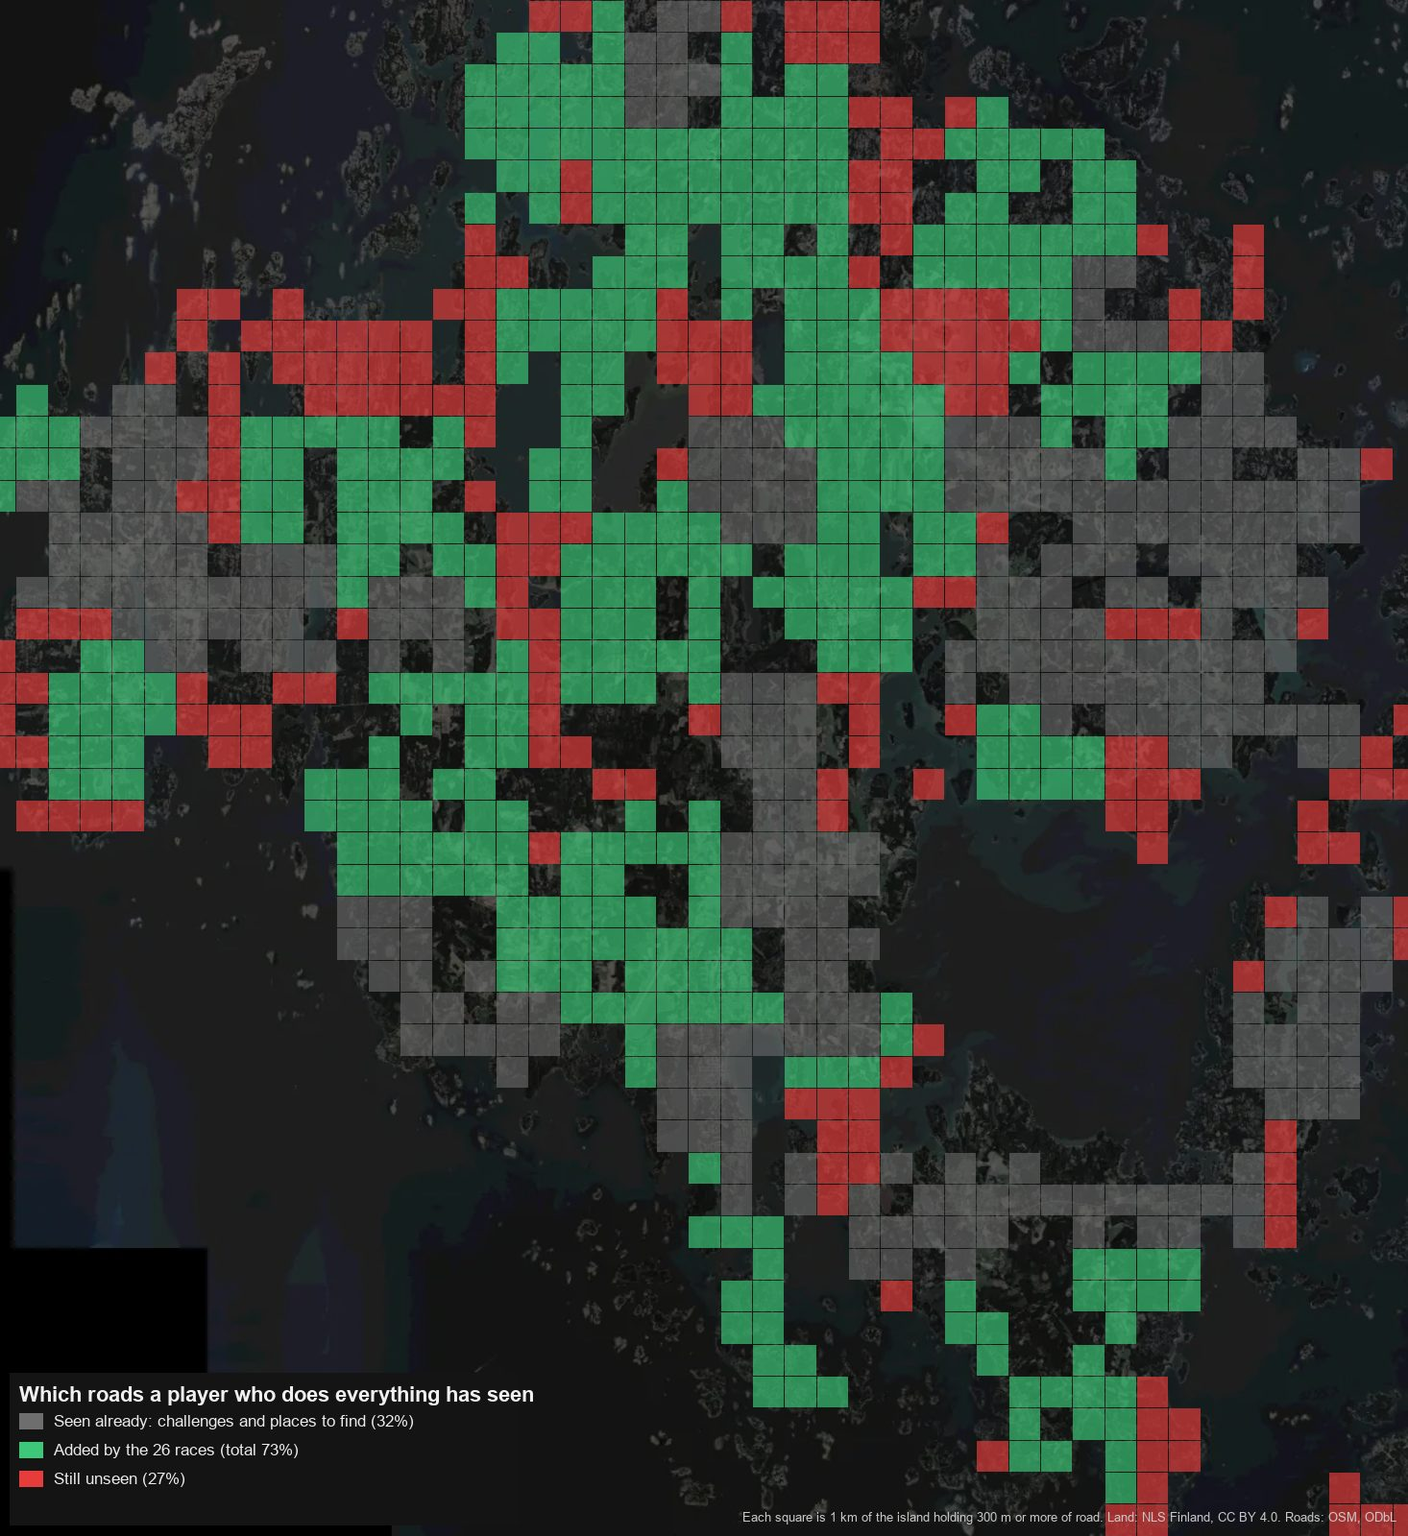
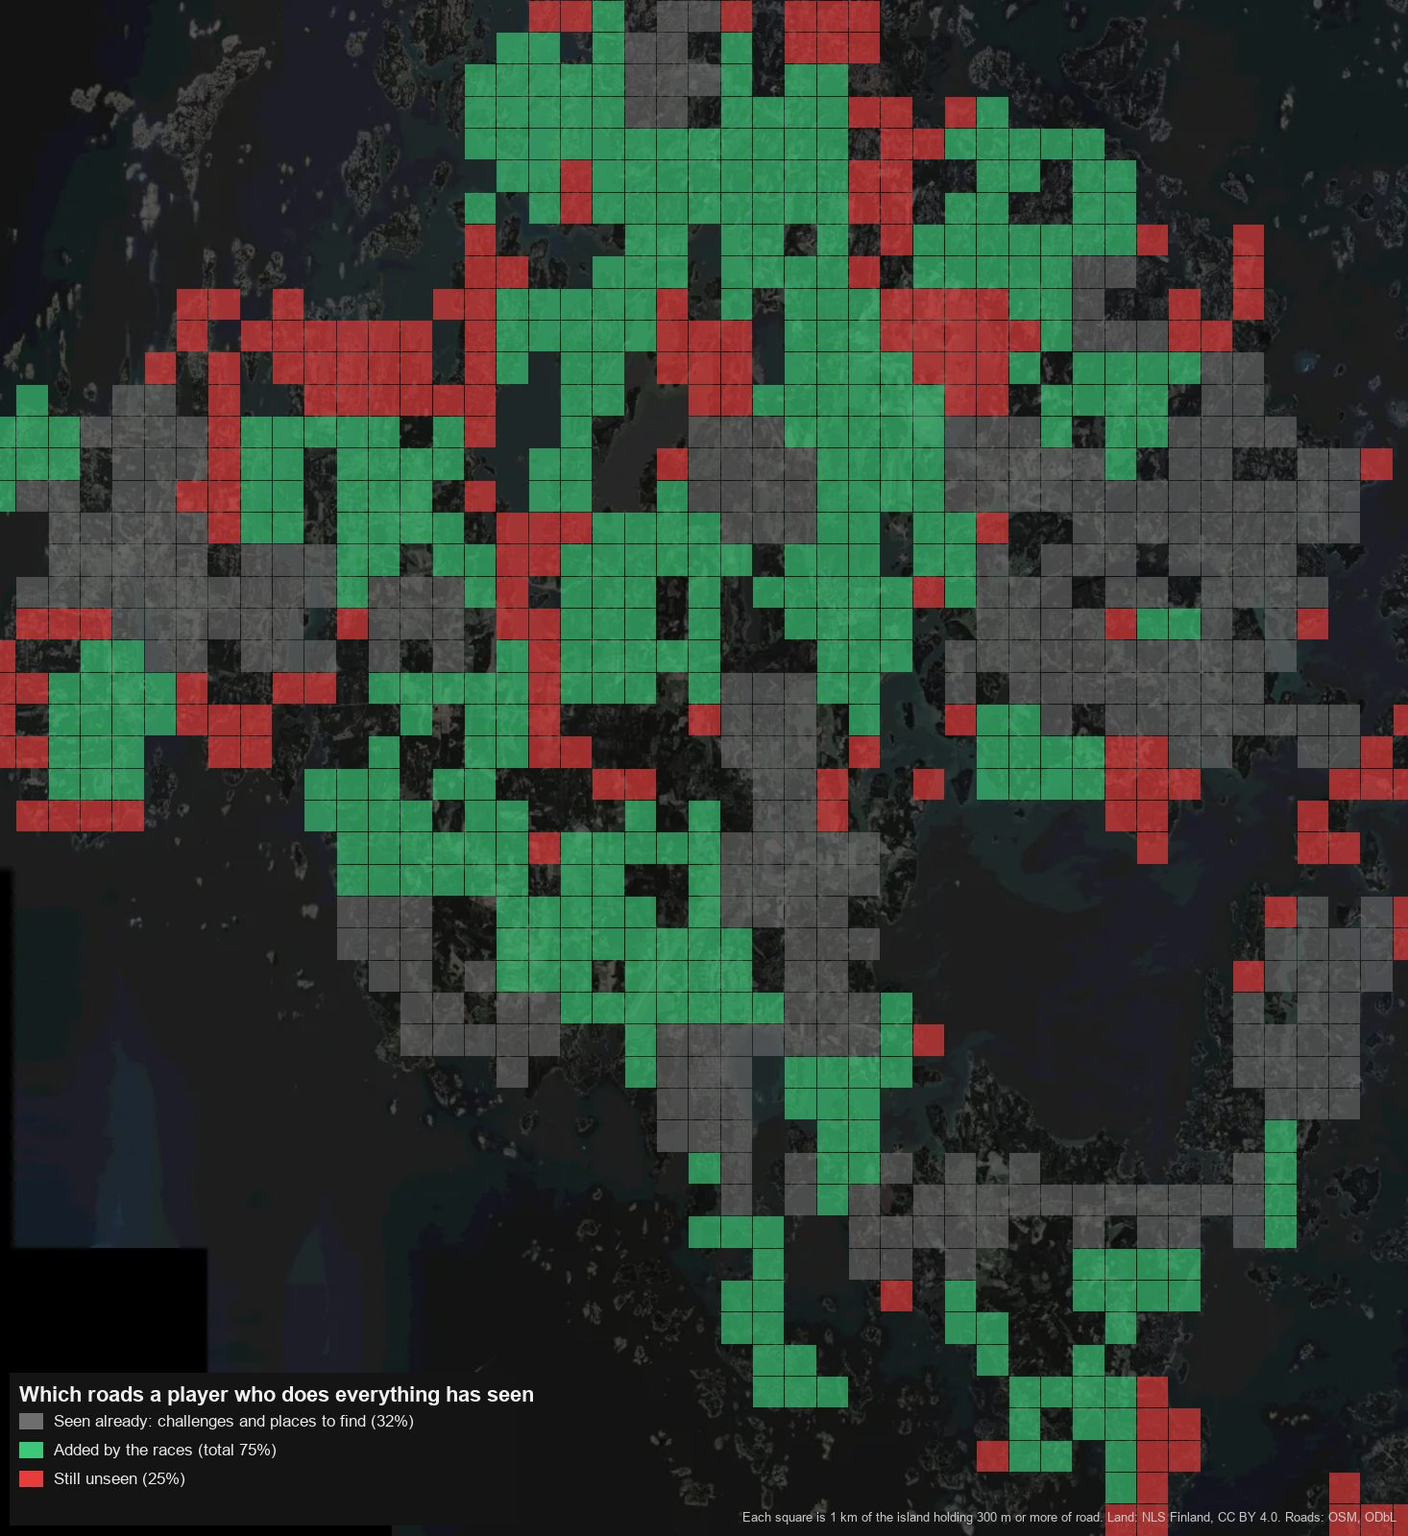
docs(aland-drive): races may use the bucket list's roads
The owner dropped the rule keeping races off challenge roads: those are
the island's most storied roads, and a race asks something different of
them (laps, racers and traffic, another car or way round). Six tracks
join on them: Kastelholm, the old and new road 2, the night run to
Långnäs, the Sund Ring, Djurvik and Nötviken. 32 tracks, 75% of the
island's road seen.

diff --git a/src/projects/aland-drive/ideas/races.md b/src/projects/aland-drive/ideas/races.md
@@ -7,19 +7,19 @@ The order of work is the owner's: plan, then races on the map, then the AI drive
 ## The short version
 
 - **A race is a circuit or a sprint**: laps of a loop, or point to point. Every race is also one of three kinds by what's under the wheels: **road** (asphalt only), **cross country** (asphalt and gravel mixed) and **off-road** (gravel and loose ground).
-- **Races are a way to explore.** A player who does every race and every bucket-list challenge and finds every place should have seen most of the island. Today the challenges and the places show about a third of its road; the 26 races here take that to nearly three quarters.
-- **26 tracks**: 12 road, 9 cross country and 5 off-road, in every parish the car can reach, none on a bucket-list challenge's road.
+- **Races are a way to explore.** A player who does every race and every bucket-list challenge and finds every place should have seen most of the island. Today the challenges and the places show about a third of its road; the 32 races here take that to three quarters.
+- **32 tracks**: 15 road, 10 cross country and 7 off-road, in every parish the car can reach. Six of them share roads with bucket-list challenges, the island's most storied ones, and ask something different of them.
 - **The race picks the car**, as a challenge does, so the first version needs no money and no garage, and the racers drive other cars of the same kind. How a player chooses a car comes later.
 - **First, second and third are gold, silver and bronze**, and a solo result is kept apart from a co-op one. A co-op team is scored as Forza Horizon scores a team: on points for the racers its players beat.
 - **Races are run in the world as it is**: its traffic, as TDU's are, and its hour, season and weather, so the AI racers must race every track in every condition and through traffic. Challenges set their own conditions instead, as Forza's bucket lists do.
 - **Races reuse the challenges' machinery** (start ring, countdown, lines across the road, the panel, the result card, retry) and add laps, a grid and places.
 - **Every track is driven by the simulation before any racer exists**, with a race version of the challenge par tool, so a track nobody can finish cleanly never reaches the racers.
 
-![The 26 tracks on the island](races-map.jpg)
+![The 32 tracks on the island](races-map.jpg)
 
-*The 26 tracks by kind: road in yellow, cross country in blue, off-road in green. A circuit is a closed loop; a sprint has a white dot at its start and a white square at its finish. Red is the bucket list's roads, which races leave alone.*
+*The 32 tracks by kind: road in yellow, cross country in blue, off-road in green. A circuit is a closed loop; a sprint has a white dot at its start and a white square at its finish. Red is the bucket list's roads.*
 
-Each track up close, on the aerial photo with its height profile: [road, 1 to 6](races-road-1.jpg), [road, 7 to 12](races-road-2.jpg), [cross country](races-cross-country.jpg) and [off-road](races-off-road.jpg).
+Each track up close, on the aerial photo with its height profile: [road, 1 to 6](races-road-1.jpg), [road, 7 to 12](races-road-2.jpg), [cross country](races-cross-country.jpg), [off-road](races-off-road.jpg) and [the six on challenge roads](races-on-challenge-roads.jpg).
 
 ## 1. Race types
 
@@ -58,7 +58,7 @@ The criteria every track is scored on, with what the score is measured from.
 | **Scenery and landmarks** | The game is a tour of a real place. A race past a castle or along the sea is remembered; one through forest isn't. | Real places from `docs/HISTORY.md` within 400 m, and sea or open views on the map. |
 | **Overtaking** | Wheel to wheel needs places to pass: straights over 300 m, and hard braking into a slow corner after one. | Straights over 300 m, and the longest. |
 | **Width** | Two cars side by side need a two-lane road. A gravel lane takes one car at a time. | The road's class: primary and secondary are two lanes, unclassified lanes one. |
-| **What it shows** | Races are how a player comes to know the island. | The roads within a kilometre of the route that no challenge, place or other race already shows. |
+| **What it shows** | Races are how a player comes to know the island. | The roads within a kilometre of the route that no challenge, place or other race already shows. A race on a challenge's road shows nothing new, and earns its place by the road itself. |
 
 ## 3. Where the loops and branches are
 
@@ -67,21 +67,21 @@ The road map (`pipeline/road_map.py`) holds every motor way OSM has. Taking the 
 - **1,921 km of road, of which 841 km is on loops.** The rest is branches: a lane to a farm, a road out to a cape or over the bridges to an island.
 - **About a hundred loops of 2.5–16 km**, most in the middle: Jomala, Finström, Hammarland, Sund and Saltvik. The west (Eckerö) and the south (Lemland, Lumparland) have fewer and smaller ones, and Vårdö has none the car can reach.
 - **Loops on gravel are short and twisty**, on tarmac long and fast. A loop on a main road has two or three slow junction corners and long straights; on lanes it bends all the way.
-- **The bucket-list challenges' roads were marked and left out**: no track shares more than a crossing with one.
+- **The bucket-list challenges' roads are open to races too.** They are the island's most storied roads, and a race on one is a different thing from the challenge: laps instead of one run, racers and traffic instead of a target, another car or another way round. A race on a challenge's road must differ from the challenge in at least one of those.
 
 ### What a player who does everything will have seen
 
-The island was cut into squares of a kilometre, and each square with 300 m of road or more counts. A square is seen when a challenge's road, a race's route or a place to find passes it or the square next to it. The tracks were chosen to fill what the challenges and places leave unseen, a loop or a branch at a time, each where it showed the most new road, then balanced between the three kinds.
+The island was cut into squares of a kilometre, and each square with 300 m of road or more counts. A square is seen when a challenge's road, a race's route or a place to find passes it or the square next to it. Most tracks were chosen to fill what the challenges and places leave unseen, a loop or a branch at a time, each where it showed the most new road, then balanced between the three kinds. The six on challenge roads are there for the roads themselves.
 
 ![What a player who does everything has seen](races-coverage.jpg)
 
 - **The challenges and the places show 32%** of the squares.
-- **With the 26 races, 73%.**
+- **With the 32 races, 75%.**
 - **The gaps left** are Hammarland's north coast, Saltvik's north-east, Lumparland and Lemland's south-eastern tip: where the list grows next.
 
 ## 4. The tracks
 
-26 tracks. Positions are the game's scene metres (x east, z south of the world origin), as `docs/HISTORY.md` gives them. Each is a starting point: the map step lays it on the road as built and the vetting run drives it (section 7). A track with no story yet is there for what it shows, and gets its note when it is researched to `docs/HISTORY.md`'s standard.
+32 tracks. Positions are the game's scene metres (x east, z south of the world origin), as `docs/HISTORY.md` gives them. Each is a starting point: the map step lays it on the road as built and the vetting run drives it (section 7). A track with no story yet is there for what it shows, and gets its note when it is researched to `docs/HISTORY.md`'s standard.
 
 ### Road: asphalt only
 
@@ -99,6 +99,9 @@ The island was cut into squares of a kilometre, and each square with 300 m of ro
 | R10 | Out to Järsö | Sprint | 7.9 km | 4 | 1–14 m | 880 m | Island to island south of Mariehamn |
 | R11 | Hamnsund | Sprint | 5.4 km | 2 | 2–52 m | 350 m | To find |
 | R12 | The Kungsö Road | Circuit | 6.9 km | 4 | 2–10 m | 720 m | Towards Kungsö's battery |
+| R13 | Kastelholm, Sund | Circuit | 3.7 km | 6 | 1–22 m | 500 m | Round the castle |
+| R14 | The Old Road and the New, Jomala | Circuit | 5.6 km | 2 | 3–23 m | 910 m | Old and new road 2, the Streetrace's 2021–22 road |
+| R15 | The Night Ferry, Mariehamn to Långnäs | Sprint | 26.8 km | 2 | 0–32 m | 1,600 m | Catch the ship that calls in the night |
 
 **R1. Harbour to Harbour.** Storagatan from Österhamn to Västerhamn, north along the western harbour on Sjöpromenaden past Pommern and under Badhusberget's water tower, east by Elverksgatan and Västra Utfarten to Ålandsvägen, then down Strandgatan along the eastern harbour. Starts at (−1903, 6780). Square town corners, Storagatan's straight, the harbour front and nine of the town's sights within 150 m: Pommern, the Maritime Museum, S:t Görans, Gustaf Erikson's home, Sundblom, the empress's memorial, the town hall. **Story:** the summer cruise between the Eastern and Western harbours, and the wide streets Mariehamn was laid out with in 1861 as fire breaks, which make a street circuit possible at all. **Watch:** parked cars line some kerbs and the street lamps and lindens stop the car, and the roads stay open, so the vetting run checks the route can be raced past them. Some streets are one-way, so the route runs the way their traffic does.
 
@@ -124,6 +127,12 @@ The island was cut into squares of a kilometre, and each square with 300 m of ro
 
 **R12. The Kungsö Road.** Österskogsvägen, Kungsövägen, Hammarlandsvägen and Gottbyvägen, west of Mariehamn. Starts at (−7551, 2787). Flat and fast through fields. Kungsövägen is the road out to Kungsö's battery, Russia's gun pits of 1916.
 
+**R13. Kastelholm.** Slottsvägen past the castle, Sundsvägen and Tosarbyvägen. Starts at (7814, −7168). Short and quick, with the castle, Vita Björn and Jan Karlsgården beside the road. **Story:** Åland's only medieval castle, the Swedish crown's seat here. It shares Slottsvägen and a little of Sundsvägen with the challenge from the castle to Bomarsund: the challenge is one run east to the fortress, the race laps the castle.
+
+**R14. The Old Road and the New.** Out on Godbyvägen, old road 2, and back on Nya Godbyvägen, the new one, joined by two hairpin junctions. Starts at (1418, −6093). Nearly an oval: flat out, two heavy stops, the best overtaking on the island. **Story:** the main road north from Mariehamn, rebuilt alongside itself, where the Streetrace returned in 2021 and 2022. The road-2 speed trap is on the straight just south: the trap is one car's top speed, the race is laps and racers.
+
+**R15. The Night Ferry.** From Mariehamn east along Lemlandsvägen, over the Lemström bridge, across Lemland and on to Långnäs harbour. Starts at (−1884, 4835), finishes at (17827, 6651). The longest race, a highway sprint across half the island. **Story:** the big ships still call at Långnäs, a very small place, in the night, because Åland sits outside the EU's tax area (the Long Night Runs of `docs/DRIVING-CULTURE.md`). It shares Lemlandsvägen with the Lemland speed trap and its last road with the V12's challenge to Långnäs: those are one car on one stretch, this is the whole way, against racers.
+
 ### Cross country: asphalt and gravel
 
 | # | Track | Shape | Length | Asphalt | Bends | Ground | Story |
@@ -137,6 +146,7 @@ The island was cut into squares of a kilometre, and each square with 300 m of ro
 | X7 | Bovik, Hammarland | Circuit | 5.7 km | 75% | 8 | 12–25 m | To find |
 | X8 | Storby to Käringsund, Eckerö | Sprint | 8.5 km | 64% | 12 | 1–32 m | The post road's start to the fishing harbour |
 | X9 | Tellholm, Hammarland | Circuit | 4.2 km | 18% | 6 | 2–21 m | Hammarland's west coast |
+| X10 | The Sund Ring | Circuit | 19.6 km | 89% | 15 | 3–51 m | The Backrace road, Kastelholm, Sund church |
 
 **X1. Degersand.** Skeppsviksvägen, Långnabbavägen, Degersandsvägen and Torpvägen, in Eckerö's south-west. Starts at (−21122, −5216). The twistiest loop found: seventeen bends, gravel and tarmac changing under the car, 9% grades. **Story:** Degersand, the sandy shore at Eckerö's tip, its note still to be checked against a source. Eckerö is past Marsund, so the drive there crosses the bridge the post-road challenge does.
 
@@ -156,6 +166,8 @@ The island was cut into squares of a kilometre, and each square with 300 m of ro
 
 **X9. Tellholm.** Tellholmsvägen, Träskviksvägen and Aludden, on Hammarland's west coast. Starts at (−13673, −112). Mostly gravel: the edge between cross country and off-road.
 
+**X10. The Sund Ring.** Norra Sundsvägen east, Mångstektavägen and the gravel past Nötviken, and back west on Sundsvägen past Bomarsund's turning and Kastelholm. Starts at (12078, −5969). The island's big circuit: 15 bends, 221 m climbed a lap, a 1.2 km straight. **Story:** Norra Sundsvägen is the Backrace's road, Sund church the largest medieval church on Åland, and Kastelholm the castle. It shares most of its road with two challenges, the Backrace road flat out and castle to fortress: each of those is one run one way in one car, the ring is all of it in laps, against racers.
+
 ### Off-road: gravel
 
 | # | Track | Shape | Length | Bends | Ground | Story |
@@ -165,6 +177,8 @@ The island was cut into squares of a kilometre, and each square with 300 m of ro
 | O3 | Båtvik, Sund | Circuit | 3.3 km | 4 | 5–38 m | Across the bay from Kastelholm |
 | O4 | Småkärr, Hammarland | Sprint | 4.1 km | 8 | 2–15 m | Along the sound north of Marsund |
 | O5 | Kullskär, Hammarland | Circuit | 5.8 km | 12 | 4–39 m | Hammarland's west coast |
+| O6 | Djurvik, Hammarland | Circuit | 9.3 km | 20 | 3–34 m | Out to the shore at Djurvik |
+| O7 | Nötviken, Sund | Circuit | 7.1 km | 14 | 9–51 m | The forest above the bay |
 
 **O1. Vessingsboda Lanes.** Norra Byvägen and Hagsviksvägen, gravel all the way, the lanes beside Mönbackavägen. Starts at (11905, 12711). Thirteen bends and nothing straight for more than 180 m: a rally loop. **Story:** Motorstadion, Ålands motorklubb's home ground at Vessingsboda, is half a kilometre west, where the folkrace runs every spring and autumn.
 
@@ -176,14 +190,18 @@ The island was cut into squares of a kilometre, and each square with 300 m of ro
 
 **O5. Kullskär.** Kullskärsvägen, Alskog and Bankvikvägen, on Hammarland's west coast. Starts at (−14136, −1801). Twelve bends, a climb to 39 m and back to the shore.
 
+**O6. Djurvik.** Djurvikvägen, Södra Bråkviken and Varggropsvägen, a loop of Hammarland's south-west down to the shore. Starts at (−11672, 3710). The most bends of any track, twenty, all gravel. It shares 2.9 km of Djurvikvägen with the four-by-four's challenge to Djurvik, which goes one way to the shore; the race laps the whole loop.
+
+**O7. Nötviken.** Norra Sundsvägen's gravel end, Kvarnsjövägen and Faderviksvägen, in the forest above Nötviken's bay. Starts at (12749, −10801). Fourteen bends, nothing straight longer than 180 m, 134 m climbed a lap. It shares 2 km with the rally car's challenge to Nötviken, and 2.5 km with X10.
+
 ### Left out
 
-- **The Old Road and the New**, Jomala: out on old road 2 and back on the new, nearly an oval. It sits right beside the road-2 speed trap and shows nothing new.
+- **The Ytterby stage**, the real Rallysprint's gravel: the challenge already runs it as the real event does, one car against the clock, and the stage's joining road is a service road the measuring left out. It comes back as a race in the rallysprint's own format, cars started apart.
 - **Getabergen** as a race of its own: 1.3 km. It is R6's finish.
 
 ## 5. How many, and which first
 
-**All 26 go on the map in the first step.** Races are mostly data once the system exists, and the whole list is what makes them a way to explore. The vetting run (section 7) drives all of them, so the system is proven on every kind of road at once: R1 Harbour to Harbour is the hardest to lay (kerbs, one-way streets), R6 Godby to Soltuna the longest, X1 Degersand the twistiest.
+**All 32 go on the map in the first step.** Races are mostly data once the system exists, and the whole list is what makes them a way to explore. The vetting run (section 7) drives all of them, so the system is proven on every kind of road at once: R1 Harbour to Harbour is the hardest to lay (kerbs, one-way streets), R15 the Night Ferry the longest, O6 Djurvik the twistiest.
 
 After them, the gaps the coverage map shows.
 
@@ -218,7 +236,7 @@ TDU put every race at a marker on the map that you drove to; Forza and The Crew 
 
 ### Races and the bucket list
 
-Two lists on the same machinery. A challenge is one car the game hands you, one road, one target, passed or failed, solo or with a friend, in conditions it sets. A race is the same handed car against racers and traffic, laps or a long road, a medal, in whatever the world has. Their roads don't overlap, their symbols and colours differ, and together with the places to find they are the island's map to explore.
+Two lists on the same machinery. A challenge is one car the game hands you, one road, one target, passed or failed, solo or with a friend, in conditions it sets. A race is the same handed car against racers and traffic, laps or a long road, a medal, in whatever the world has. Six races share roads with challenges and ask something else of them, their symbols and colours differ, and together with the places to find they are the island's map to explore.
 
 ### What is reused from `challenge/`
 
@@ -247,7 +265,7 @@ Two lists on the same machinery. A challenge is one car the game hands you, one 
 
 ## 8. The build order after the plan
 
-1. **Races on the map.** The list (specs, then measured grids, lines and laps), the rings and symbols on both maps with the route on the world map, the race card, the run grown to laps, several cars and places, the panel and the result card, the medals kept solo and co-op apart. Playable at once against the clock, and with friends online. Needs only what the challenges have. **Done when** all 26 can be found, started, finished and retried.
+1. **Races on the map.** The list (specs, then measured grids, lines and laps), the rings and symbols on both maps with the route on the world map, the race card, the run grown to laps, several cars and places, the panel and the result card, the medals kept solo and co-op apart. Playable at once against the clock, and with friends online. Needs only what the challenges have. **Done when** all 32 can be found, started, finished and retried.
 2. **The race vetting tool**, above, with the scripted driver. Needs step 1's list. **Done when** every race is finished cleanly, or its track is changed.
 3. **The racing line and speed plan** (piece 3 of `ideas/traffic-and-racers.md`), checked on these races rather than the challenges' stages: a line inside the laid edges that straightens the bends, and the car's speed plan along it from its measured limits, by surface and condition. Needs step 2 and the limits table. **Done when** every race is finished on the line in every condition, faster than on the middle.
 4. **The racer** (piece 4): the driver of that plan, with its own reset to recover, and difficulty as how much of its car's limit it uses, how late it brakes and how often it slips. First as one rival, then a grid started apart. Needs step 3. **Done when** a race is run against racers whose times spread by difficulty, measured by count.
@@ -264,7 +282,8 @@ After those: the gaps the coverage map shows; more rally cars and four-by-fours 
 - **Races are a way to explore**: every race, every challenge and every place to find together show most of the map. All the tracks shown are in.
 - **The race picks the car**, as a bucket-list challenge does, for a first race system with no money and no way to change cars. How a player chooses a car to enter, and what's allowed, is for later.
 - **The racers drive mixed cars of the race's kind**, which may mean adding more racing cars, of the loose kinds above all.
-- **All 26 tracks go on the map at once.**
+- **All 32 tracks go on the map at once.**
+- **Races may use the bucket-list challenges' roads**, as long as a race asks something different of the road: laps, racers and traffic, another car or another way round.
 - **Races are run in the world as it is: traffic on, as TDU's are, and the world's hour, season and weather.** The AI racers must handle every track in every condition. Bucket-list challenges set their own conditions instead, as Forza's do.
 - **Records are gold, silver and bronze** for first, second and third, and a solo record is kept apart from a co-op one.
 - **Co-op players are one team, scored on Forza Horizon's team points**, its medal from its points per player.
